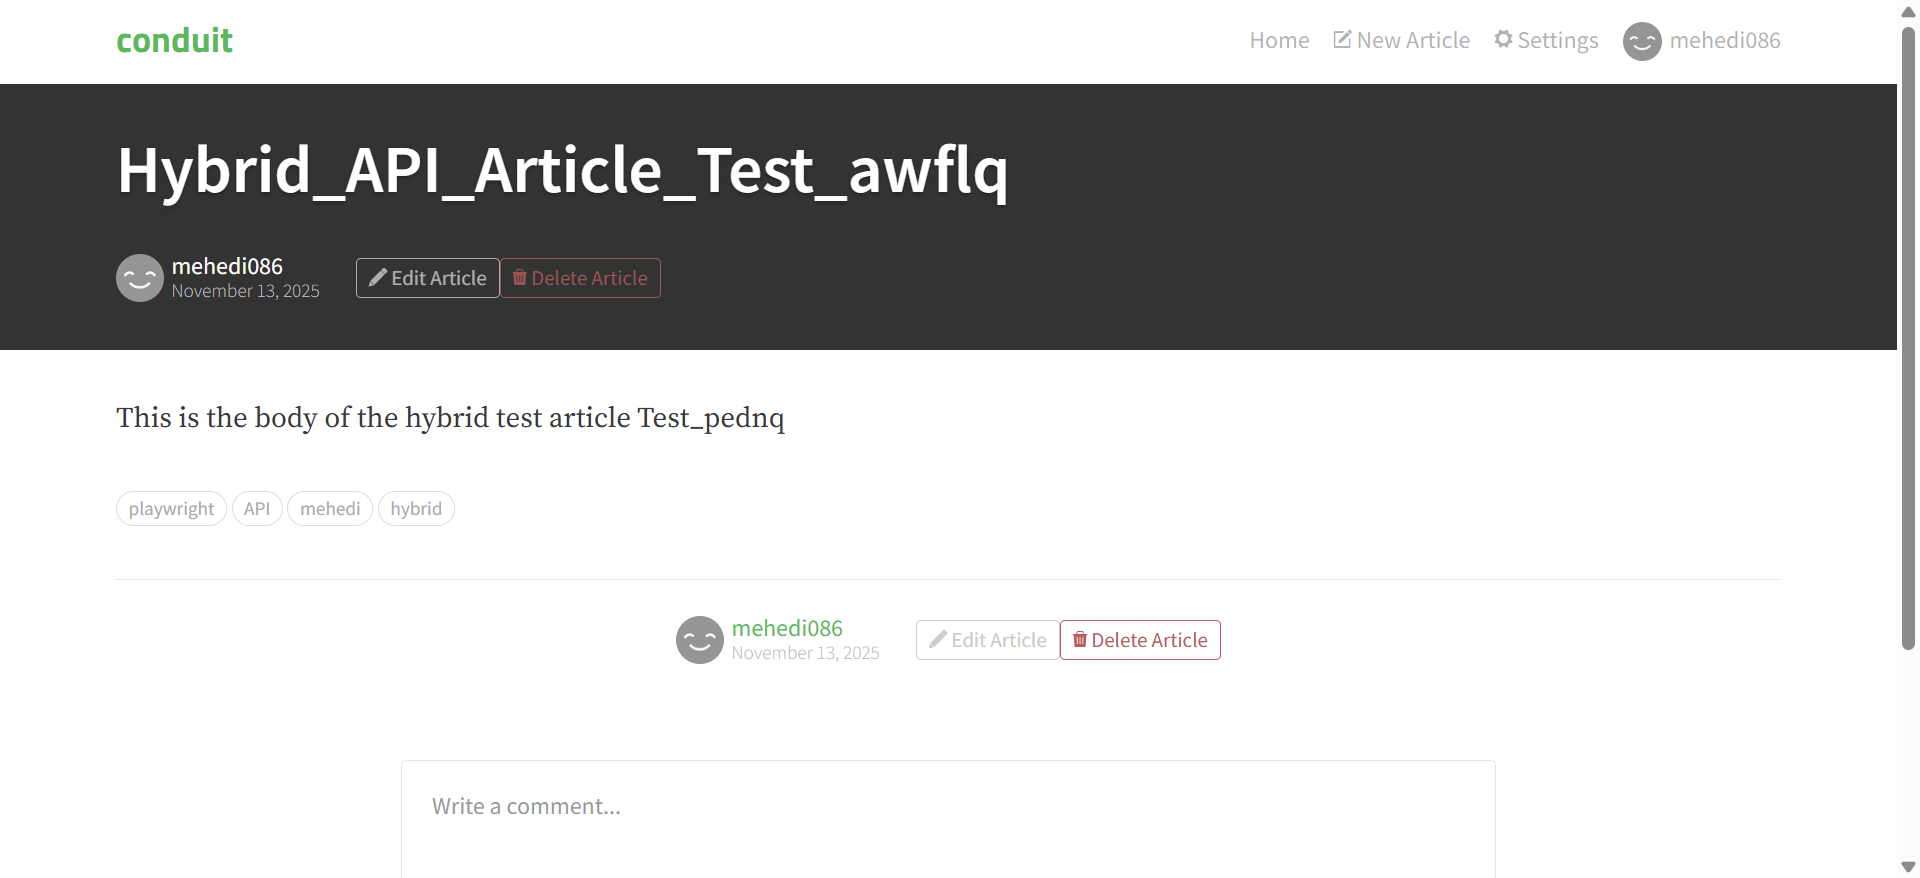
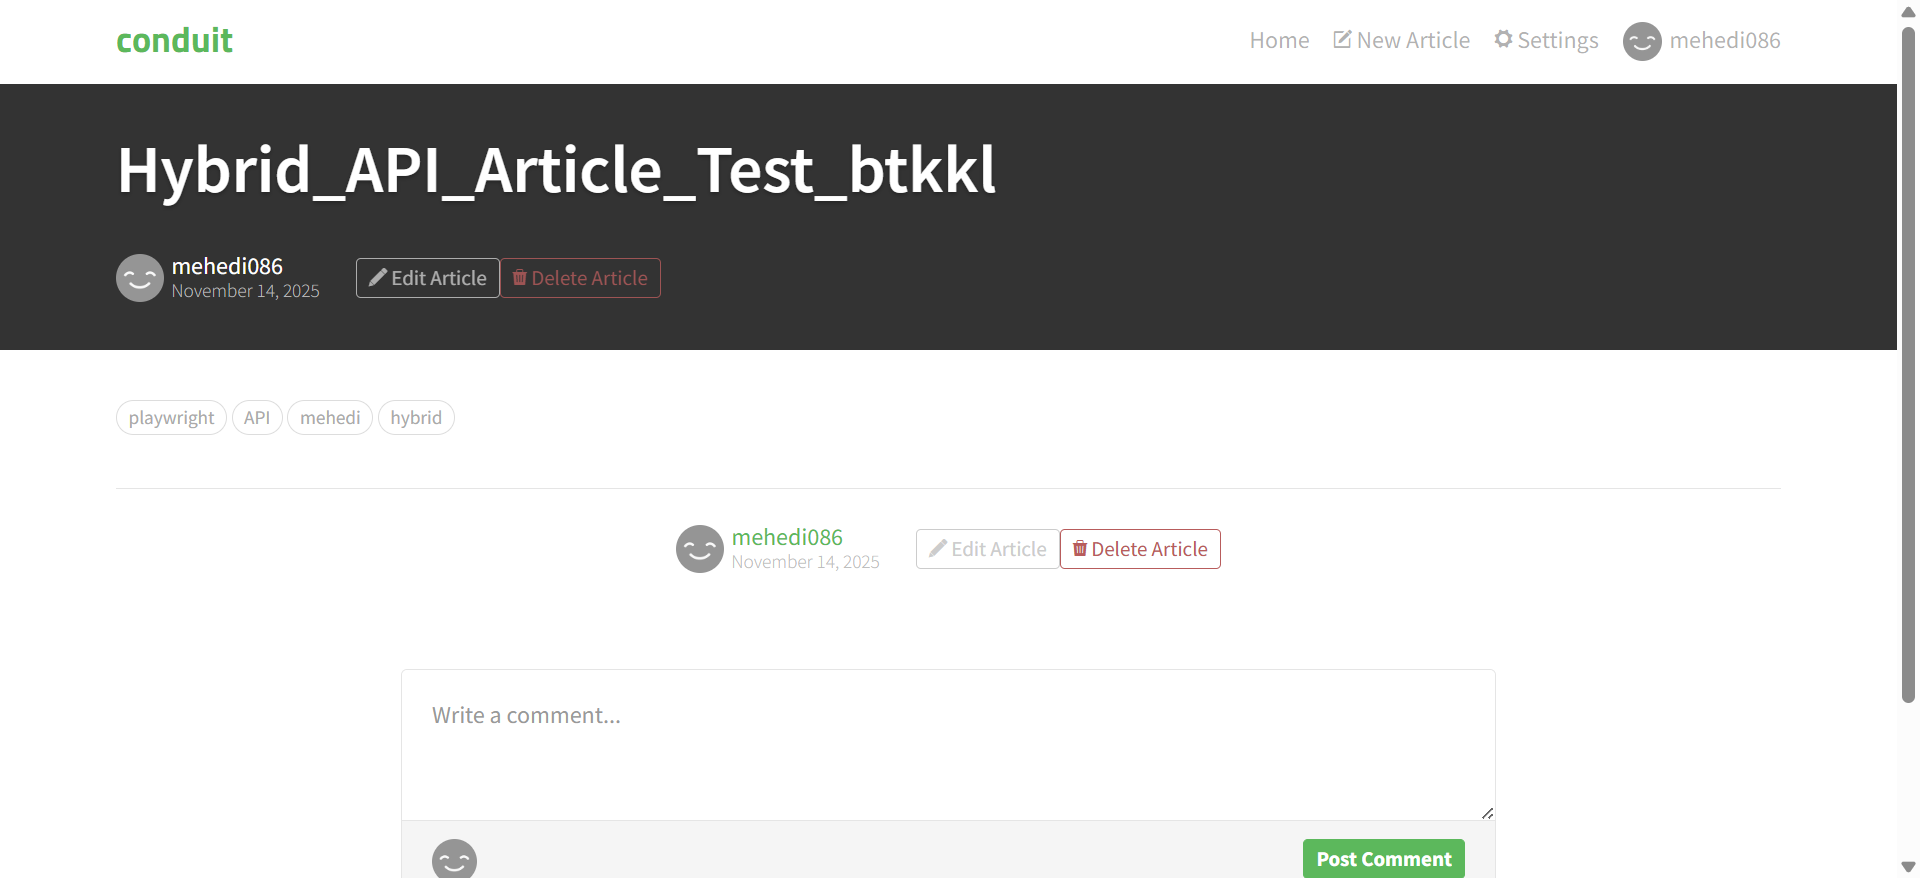
reuse session and avoild repeated login

diff --git a/report.html b/report.html
@@ -328,7 +328,7 @@ div.media {
   </head>
   <body>
     <h1 id="title">report.html</h1>
-    <p>Report generated on 13-Nov-2025 at 17:14:57 by <a href="https://pypi.python.org/pypi/pytest-html">pytest-html</a>
+    <p>Report generated on 14-Nov-2025 at 00:27:02 by <a href="https://pypi.python.org/pypi/pytest-html">pytest-html</a>
         v4.1.1</p>
     <div id="environment-header">
       <h2>Environment</h2>
@@ -382,7 +382,7 @@ div.media {
         <h2>Summary</h2>
         <div class="additional-summary prefix">
         </div>
-        <p class="run-count">3 tests took 00:00:30.</p>
+        <p class="run-count">3 tests took 00:00:24.</p>
         <p class="filter">(Un)check the boxes to filter the results.</p>
         <div class="summary__reload">
           <div class="summary__reload__button hidden" onclick="location.reload()">
@@ -429,7 +429,7 @@ div.media {
     </table>
   </body>
   <footer>
-    <div id="data-container" data-jsonblob="{&#34;environment&#34;: {&#34;Python&#34;: &#34;3.12.2&#34;, &#34;Platform&#34;: &#34;Windows-11-10.0.26100-SP0&#34;, &#34;Packages&#34;: {&#34;pytest&#34;: &#34;9.0.1&#34;, &#34;pluggy&#34;: &#34;1.6.0&#34;}, &#34;Plugins&#34;: {&#34;html&#34;: &#34;4.1.1&#34;, &#34;metadata&#34;: &#34;3.1.1&#34;}, &#34;JAVA_HOME&#34;: &#34;C:\\Program Files\\Java\\jdk-23&#34;}, &#34;tests&#34;: {&#34;tests/test_case1_create_article.py::test_create_article_via_api_after_ui_login&#34;: [{&#34;extras&#34;: [], &#34;result&#34;: &#34;Passed&#34;, &#34;testId&#34;: &#34;tests/test_case1_create_article.py::test_create_article_via_api_after_ui_login&#34;, &#34;duration&#34;: &#34;00:00:10&#34;, &#34;resultsTableRow&#34;: [&#34;&lt;td class=\&#34;col-result\&#34;&gt;Passed&lt;/td&gt;&#34;, &#34;&lt;td class=\&#34;col-testId\&#34;&gt;tests/test_case1_create_article.py::test_create_article_via_api_after_ui_login&lt;/td&gt;&#34;, &#34;&lt;td class=\&#34;col-duration\&#34;&gt;00:00:10&lt;/td&gt;&#34;, &#34;&lt;td class=\&#34;col-links\&#34;&gt;&lt;/td&gt;&#34;], &#34;log&#34;: &#34;----------------------------- Captured stdout call -----------------------------\nArticle created successfully via API after UI login: Hybrid_API_Article_Test_awflq-38599\n&#34;}], &#34;tests/test_case2_edit_article.py::test_edit_article_after_api_creation&#34;: [{&#34;extras&#34;: [], &#34;result&#34;: &#34;Passed&#34;, &#34;testId&#34;: &#34;tests/test_case2_edit_article.py::test_edit_article_after_api_creation&#34;, &#34;duration&#34;: &#34;00:00:11&#34;, &#34;resultsTableRow&#34;: [&#34;&lt;td class=\&#34;col-result\&#34;&gt;Passed&lt;/td&gt;&#34;, &#34;&lt;td class=\&#34;col-testId\&#34;&gt;tests/test_case2_edit_article.py::test_edit_article_after_api_creation&lt;/td&gt;&#34;, &#34;&lt;td class=\&#34;col-duration\&#34;&gt;00:00:11&lt;/td&gt;&#34;, &#34;&lt;td class=\&#34;col-links\&#34;&gt;&lt;/td&gt;&#34;], &#34;log&#34;: &#34;----------------------------- Captured stdout call -----------------------------\nArticle created via API: Editable_Article_Test_vkenb-38599\nArticle updated via UI.\nEdited article verified successfully!\n....TEST COMPLETED SUCCESSFULLY....\n&#34;}], &#34;tests/test_case3_delete_article.py::test_delete_article_after_api_creation&#34;: [{&#34;extras&#34;: [], &#34;result&#34;: &#34;Passed&#34;, &#34;testId&#34;: &#34;tests/test_case3_delete_article.py::test_delete_article_after_api_creation&#34;, &#34;duration&#34;: &#34;00:00:09&#34;, &#34;resultsTableRow&#34;: [&#34;&lt;td class=\&#34;col-result\&#34;&gt;Passed&lt;/td&gt;&#34;, &#34;&lt;td class=\&#34;col-testId\&#34;&gt;tests/test_case3_delete_article.py::test_delete_article_after_api_creation&lt;/td&gt;&#34;, &#34;&lt;td class=\&#34;col-duration\&#34;&gt;00:00:09&lt;/td&gt;&#34;, &#34;&lt;td class=\&#34;col-links\&#34;&gt;&lt;/td&gt;&#34;], &#34;log&#34;: &#34;----------------------------- Captured stdout call -----------------------------\nLogged in via UI\nToken fetched successfully\nArticle created via API: Deletable_Article_Test_sbfah-38599\nDelete button clicked\nRedirected to home page successfully\n.... TEST COMPLETED SUCCESSFULLY ....\n&#34;}]}, &#34;renderCollapsed&#34;: [&#34;passed&#34;], &#34;initialSort&#34;: &#34;result&#34;, &#34;title&#34;: &#34;report.html&#34;}"></div>
+    <div id="data-container" data-jsonblob="{&#34;environment&#34;: {&#34;Python&#34;: &#34;3.12.2&#34;, &#34;Platform&#34;: &#34;Windows-11-10.0.26100-SP0&#34;, &#34;Packages&#34;: {&#34;pytest&#34;: &#34;9.0.1&#34;, &#34;pluggy&#34;: &#34;1.6.0&#34;}, &#34;Plugins&#34;: {&#34;html&#34;: &#34;4.1.1&#34;, &#34;metadata&#34;: &#34;3.1.1&#34;}, &#34;JAVA_HOME&#34;: &#34;C:\\Program Files\\Java\\jdk-23&#34;}, &#34;tests&#34;: {&#34;tests/test_case1_create_article.py::test_create_article_via_api_after_ui_login&#34;: [{&#34;extras&#34;: [], &#34;result&#34;: &#34;Passed&#34;, &#34;testId&#34;: &#34;tests/test_case1_create_article.py::test_create_article_via_api_after_ui_login&#34;, &#34;duration&#34;: &#34;00:00:07&#34;, &#34;resultsTableRow&#34;: [&#34;&lt;td class=\&#34;col-result\&#34;&gt;Passed&lt;/td&gt;&#34;, &#34;&lt;td class=\&#34;col-testId\&#34;&gt;tests/test_case1_create_article.py::test_create_article_via_api_after_ui_login&lt;/td&gt;&#34;, &#34;&lt;td class=\&#34;col-duration\&#34;&gt;00:00:07&lt;/td&gt;&#34;, &#34;&lt;td class=\&#34;col-links\&#34;&gt;&lt;/td&gt;&#34;], &#34;log&#34;: &#34;---------------------------- Captured stdout setup -----------------------------\nUsing existing authenticated session\n\n----------------------------- Captured stdout call -----------------------------\nAuth token successfully fetched from saved session\nArticle created via API: Hybrid_API_Article_Test_btkkl-38599\nArticle created successfully via API after UI login\n&#34;}], &#34;tests/test_case2_edit_article.py::test_edit_article_after_api_creation&#34;: [{&#34;extras&#34;: [], &#34;result&#34;: &#34;Passed&#34;, &#34;testId&#34;: &#34;tests/test_case2_edit_article.py::test_edit_article_after_api_creation&#34;, &#34;duration&#34;: &#34;00:00:11&#34;, &#34;resultsTableRow&#34;: [&#34;&lt;td class=\&#34;col-result\&#34;&gt;Passed&lt;/td&gt;&#34;, &#34;&lt;td class=\&#34;col-testId\&#34;&gt;tests/test_case2_edit_article.py::test_edit_article_after_api_creation&lt;/td&gt;&#34;, &#34;&lt;td class=\&#34;col-duration\&#34;&gt;00:00:11&lt;/td&gt;&#34;, &#34;&lt;td class=\&#34;col-links\&#34;&gt;&lt;/td&gt;&#34;], &#34;log&#34;: &#34;----------------------------- Captured stdout call -----------------------------\nArticle created via API: Editable_Article_Test_cstqc-38599\nEdited article verified successfully!\n&#34;}], &#34;tests/test_case3_delete_article.py::test_delete_article_after_api_creation&#34;: [{&#34;extras&#34;: [], &#34;result&#34;: &#34;Passed&#34;, &#34;testId&#34;: &#34;tests/test_case3_delete_article.py::test_delete_article_after_api_creation&#34;, &#34;duration&#34;: &#34;00:00:06&#34;, &#34;resultsTableRow&#34;: [&#34;&lt;td class=\&#34;col-result\&#34;&gt;Passed&lt;/td&gt;&#34;, &#34;&lt;td class=\&#34;col-testId\&#34;&gt;tests/test_case3_delete_article.py::test_delete_article_after_api_creation&lt;/td&gt;&#34;, &#34;&lt;td class=\&#34;col-duration\&#34;&gt;00:00:06&lt;/td&gt;&#34;, &#34;&lt;td class=\&#34;col-links\&#34;&gt;&lt;/td&gt;&#34;], &#34;log&#34;: &#34;----------------------------- Captured stdout call -----------------------------\nReused authenticated session successfully\nArticle created via API: Deletable_Article_Test_ccabj-38599\nDelete button clicked\nRedirected to home page successfully\nTEST COMPLETED SUCCESSFULLY\n&#34;}]}, &#34;renderCollapsed&#34;: [&#34;passed&#34;], &#34;initialSort&#34;: &#34;result&#34;, &#34;title&#34;: &#34;report.html&#34;}"></div>
     <script>
       (function(){function r(e,n,t){function o(i,f){if(!n[i]){if(!e[i]){var c="function"==typeof require&&require;if(!f&&c)return c(i,!0);if(u)return u(i,!0);var a=new Error("Cannot find module '"+i+"'");throw a.code="MODULE_NOT_FOUND",a}var p=n[i]={exports:{}};e[i][0].call(p.exports,function(r){var n=e[i][1][r];return o(n||r)},p,p.exports,r,e,n,t)}return n[i].exports}for(var u="function"==typeof require&&require,i=0;i<t.length;i++)o(t[i]);return o}return r})()({1:[function(require,module,exports){
 const { getCollapsedCategory, setCollapsedIds } = require('./storage.js')

diff --git a/tests/conftest.py b/tests/conftest.py
@@ -1,0 +1,64 @@
+import os
+import sys
+
+import pytest
+from playwright.sync_api import sync_playwright
+
+sys.path.append(os.path.dirname(os.path.dirname(__file__)))
+from utils import config
+
+
+@pytest.fixture(scope="session", autouse=True)
+def ensure_login_state():
+    state_dir = "auth"
+    state_file = os.path.join(state_dir, "state.json")
+    os.makedirs(state_dir, exist_ok=True)
+
+    if os.path.exists(state_file):
+        print("Using existing authenticated session")
+        return
+
+    print("Logging in once to create new session...")
+
+    # Determine headless mode (force True in CI)
+    if os.getenv("CI"):
+        headless = True
+    else:
+        headless = config.HEADLESS
+
+    with sync_playwright() as p:
+        browser = p.chromium.launch(headless=headless)
+        context = browser.new_context()
+        page = context.new_page()
+
+        page.goto("https://conduit.bondaracademy.com/login")
+        page.fill("input[placeholder='Email']", "mehedi_test@gmail.com")
+        page.fill("input[placeholder='Password']", "Pass@123")
+        page.click("button:has-text('Sign in')")
+        page.wait_for_selector("a:has-text('New Article')", timeout=10000)
+
+        context.storage_state(path=state_file)
+        print(f"Login successful. Session saved at {state_file}")
+
+        browser.close()
+
+
+@pytest.fixture(scope="session")
+def browser():
+    if os.getenv("CI"):
+        headless = True
+    else:
+        headless = config.HEADLESS
+
+    with sync_playwright() as p:
+        browser = p.chromium.launch(headless=headless, args=["--start-maximized"])
+        yield browser
+        browser.close()
+
+
+@pytest.fixture(scope="function")
+def page(browser):
+    context = browser.new_context(no_viewport=True, storage_state="auth/state.json")
+    page = context.new_page()
+    yield page
+    context.close()

diff --git a/tests/test_case1_create_article.py b/tests/test_case1_create_article.py
@@ -1,19 +1,14 @@
-import time
-
 from pages.article_page import ArticlePage
-from pages.login_page import LoginPage
 from utils.api_helper import create_article
 from utils.data_generator import random_string
 
 
 def test_create_article_via_api_after_ui_login(page):
-    login_page = LoginPage(page)
-    login_page.navigate()
-    login_page.login("mehedi_test@gmail.com", "Pass@123")
-    login_page.expect_logged_in()
+    page.goto("https://conduit.bondaracademy.com/")
 
-    token = login_page.get_auth_token_from_browser()
-    assert token is not None, "Failed to get token from browser localStorage"
+    token = page.evaluate("() => window.localStorage.getItem('jwtToken')")
+    assert token, "Token not found in browser localStorage"
+    print("Auth token successfully fetched from saved session")
 
     title = f"Hybrid_API_Article_{random_string()}"
     desc = f"This is about article created via API after UI login {random_string()}"
@@ -21,11 +16,10 @@ def test_create_article_via_api_after_ui_login(page):
     tags = ["api", "hybrid", "playwright", "mehedi"]
 
     article = create_article(token, title, desc, body, tags)
+    print(f"Article created via API: {article['slug']}")
 
     page.goto(f"https://conduit.bondaracademy.com/article/{article['slug']}")
     article_page = ArticlePage(page)
     article_page.expect_title_visible(title)
-
     page.screenshot(path="screenshots/article_created_via_api_after_ui.png")
-
-    print(f"Article created successfully via API after UI login: {article['slug']}")
+    print("Article created successfully via API after UI login")

diff --git a/tests/test_case2_edit_article.py b/tests/test_case2_edit_article.py
@@ -1,16 +1,11 @@
 from pages.article_page import ArticlePage
-from pages.login_page import LoginPage
 from utils.api_helper import create_article
 from utils.data_generator import random_string
 
 
 def test_edit_article_after_api_creation(page):
-    login_page = LoginPage(page)
-    login_page.navigate()
-    login_page.login("mehedi_test@gmail.com", "Pass@123")
-    login_page.expect_logged_in()
-
-    token = login_page.get_auth_token_from_browser()
+    page.goto("https://conduit.bondaracademy.com/")
+    token = page.evaluate("() => window.localStorage.getItem('jwtToken')")
     assert token, "Token not found in browser localStorage"
 
     title = f"Editable_Article_{random_string()}"
@@ -22,16 +17,12 @@ def test_edit_article_after_api_creation(page):
     print(f"Article created via API: {article['slug']}")
 
     page.goto(f"https://conduit.bondaracademy.com/article/{article['slug']}")
-    edit_page = ArticlePage(page)
+    article_page = ArticlePage(page)
+
     new_title = f"Edited_{random_string()}"
     new_desc = f"Updated description {random_string()}"
     new_body = f"Edited article body content {random_string()}"
 
-    edit_page.edit_article_ui(new_title, new_desc, new_body)
-    print("Article updated via UI.")
-
-    edit_page.expect_title_visible(new_title)
+    article_page.edit_article_ui(new_title, new_desc, new_body)
+    article_page.expect_title_visible(new_title)
     print("Edited article verified successfully!")
-
-    page.screenshot(path="screenshots/article_edited_via_ui.png")
-    print("....TEST COMPLETED SUCCESSFULLY....")

diff --git a/tests/test_case3_delete_article.py b/tests/test_case3_delete_article.py
@@ -1,21 +1,15 @@
 import time
 
 from pages.article_page import ArticlePage
-from pages.login_page import LoginPage
 from utils.api_helper import create_article
 from utils.data_generator import random_string
 
 
 def test_delete_article_after_api_creation(page):
-    login_page = LoginPage(page)
-    login_page.navigate()
-    login_page.login("mehedi_test@gmail.com", "Pass@123")
-    login_page.expect_logged_in()
-    print("Logged in via UI")
-
-    token = login_page.get_auth_token_from_browser()
+    page.goto("https://conduit.bondaracademy.com/")
+    token = page.evaluate("() => window.localStorage.getItem('jwtToken')")
     assert token, "Token not found in browser localStorage"
-    print("Token fetched successfully")
+    print("Reused authenticated session successfully")
 
     title = f"Deletable_Article_{random_string()}"
     desc = f"Precondition article created via API {random_string()}"
@@ -36,4 +30,4 @@ def test_delete_article_after_api_creation(page):
     print("Redirected to home page successfully")
 
     page.screenshot(path="screenshots/article_deleted_via_ui.png")
-    print(".... TEST COMPLETED SUCCESSFULLY ....")
+    print("TEST COMPLETED SUCCESSFULLY")
